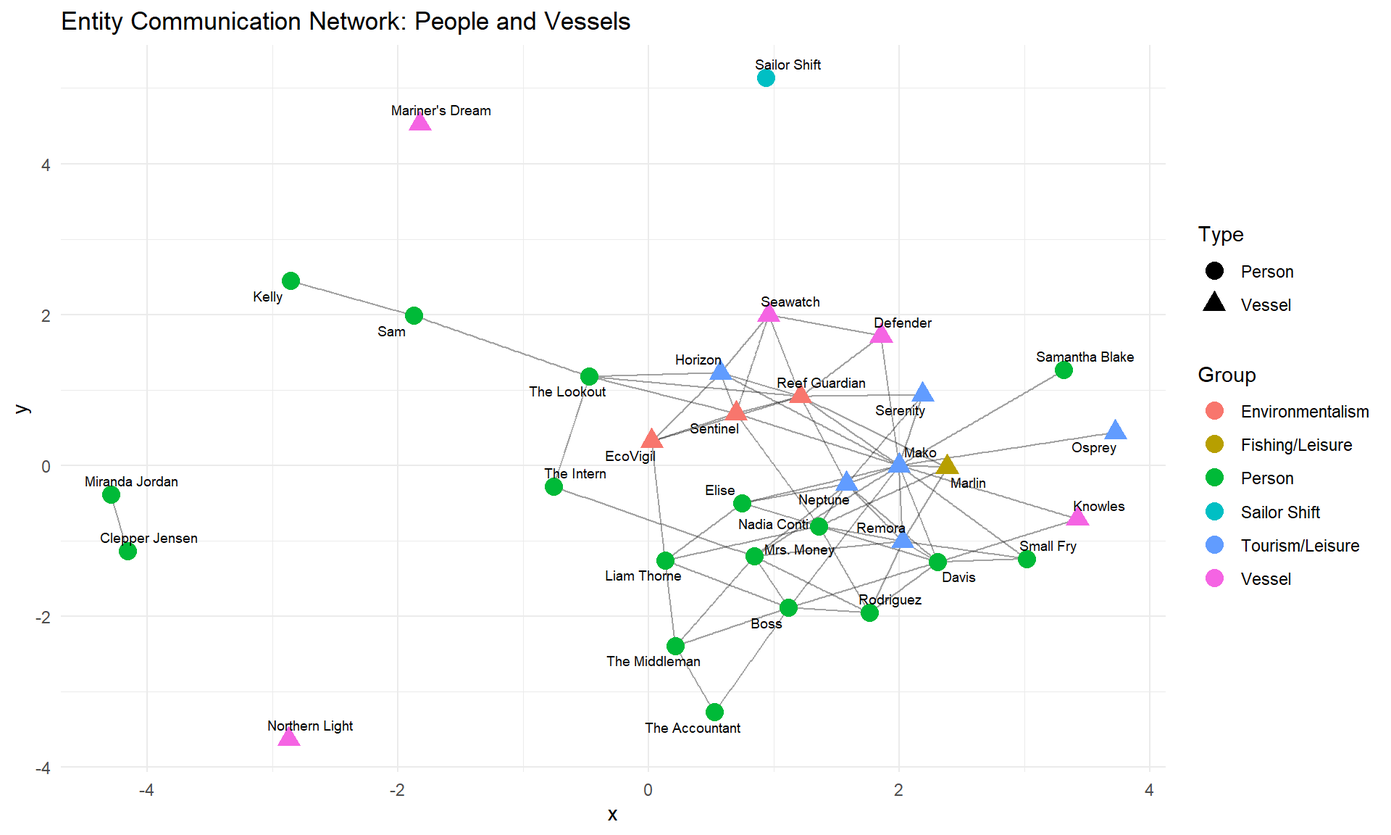
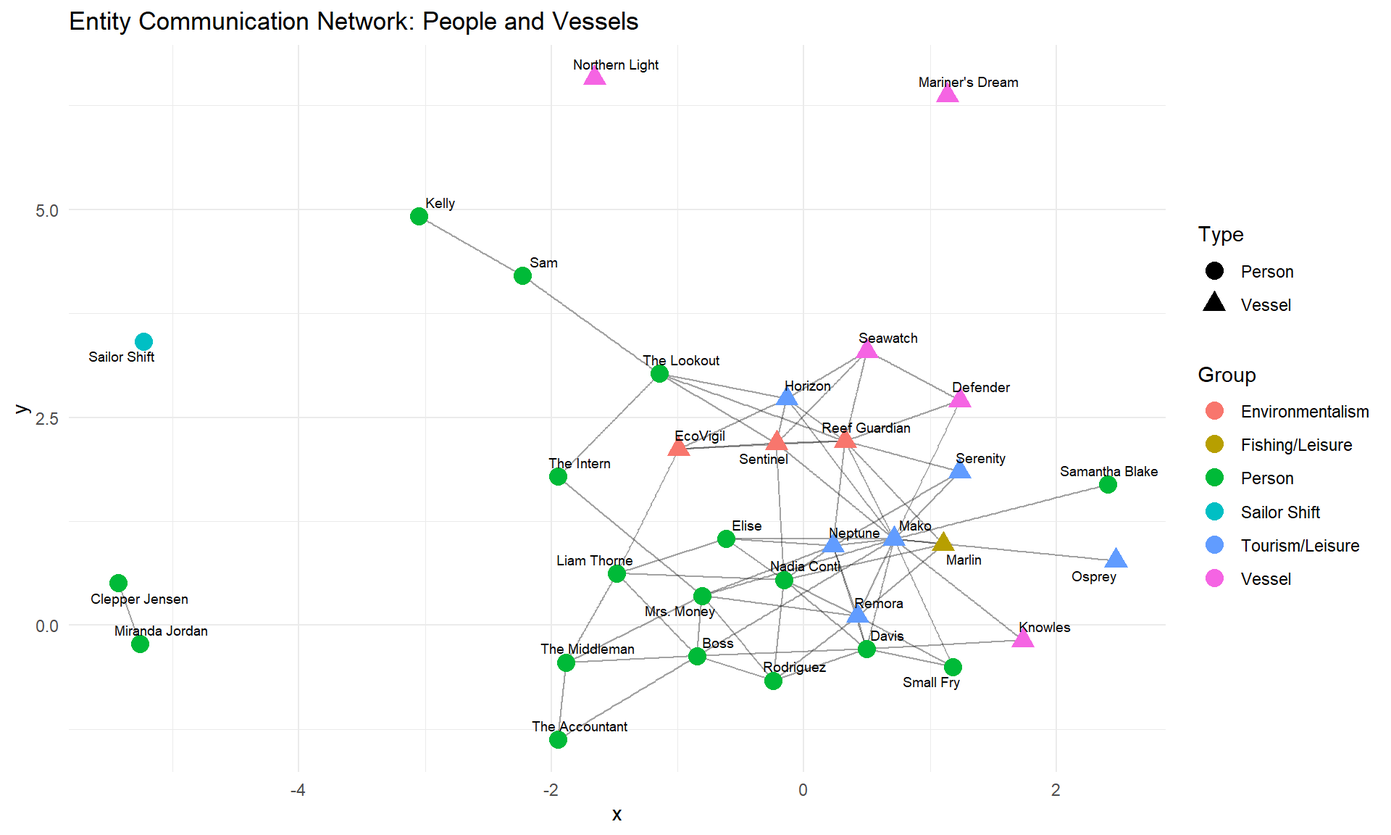
commit cluster analysis

diff --git a/_site/Take-Home_Ex/Take-Home_Ex03/Take-Home_Ex03.html b/_site/Take-Home_Ex/Take-Home_Ex03/Take-Home_Ex03.html
@@ -249,6 +249,8 @@ pre > code.sourceCode > span > a:first-child::before { text-decoration: underlin
   <li><a href="#visualise-groups" id="toc-visualise-groups" class="nav-link" data-scroll-target="#visualise-groups">Visualise Groups</a></li>
   </ul></li>
   <li><a href="#a-interactive-graph" id="toc-a-interactive-graph" class="nav-link" data-scroll-target="#a-interactive-graph">2A Interactive graph</a></li>
+  <li><a href="#cluster-analysis" id="toc-cluster-analysis" class="nav-link" data-scroll-target="#cluster-analysis">Cluster Analysis</a></li>
+  <li><a href="#algorithm-bar-charts" id="toc-algorithm-bar-charts" class="nav-link" data-scroll-target="#algorithm-bar-charts">Algorithm Bar charts</a></li>
   </ul>
 </nav>
     </div>
@@ -281,7 +283,7 @@ pre > code.sourceCode > span > a:first-child::before { text-decoration: underlin
     <div>
     <div class="quarto-title-meta-heading">Modified</div>
     <div class="quarto-title-meta-contents">
-      <p class="date-modified">June 11, 2025</p>
+      <p class="date-modified">June 12, 2025</p>
     </div>
   </div>
     
@@ -298,7 +300,7 @@ pre > code.sourceCode > span > a:first-child::before { text-decoration: underlin
 <div class="cell">
 <details open="">
 <summary>Code</summary>
-<div class="sourceCode cell-code" id="cb1"><pre class="sourceCode r code-with-copy"><code class="sourceCode r"><span id="cb1-1"><a href="#cb1-1" aria-hidden="true" tabindex="-1"></a>pacman<span class="sc">::</span><span class="fu">p_load</span>(tidyverse, jsonlite, lubridate, ggraph, tidygraph, visNetwork)</span></code><button title="Copy to Clipboard" class="code-copy-button"><i class="bi"></i></button></pre></div>
+<div class="sourceCode cell-code" id="cb1"><pre class="sourceCode r code-with-copy"><code class="sourceCode r"><span id="cb1-1"><a href="#cb1-1" aria-hidden="true" tabindex="-1"></a>pacman<span class="sc">::</span><span class="fu">p_load</span>(tidyverse, jsonlite, lubridate, ggraph, tidygraph, visNetwork, igraph, patchwork)</span></code><button title="Copy to Clipboard" class="code-copy-button"><i class="bi"></i></button></pre></div>
 </details>
 </div>
 </section>
@@ -653,8 +655,131 @@ pre > code.sourceCode > span > a:first-child::before { text-decoration: underlin
 <span id="cb14-69"><a href="#cb14-69" aria-hidden="true" tabindex="-1"></a>  <span class="fu">visGroups</span>(<span class="at">groupname =</span> <span class="st">"Person"</span>, <span class="at">color =</span> <span class="st">"#984EA3"</span>)</span></code><button title="Copy to Clipboard" class="code-copy-button"><i class="bi"></i></button></pre></div>
 </details>
 <div class="cell-output-display">
-<div id="htmlwidget-274a1208f644bc00fb0f" style="width:100%;height:800px;" class="visNetwork html-widget"></div>
-<script type="application/json" data-for="htmlwidget-274a1208f644bc00fb0f">{"x":{"nodes":{"id":["Sam","Kelly","Nadia Conti","Elise","Liam Thorne","Samantha Blake","Davis","Rodriguez","Sailor Shift","Clepper Jensen","Miranda Jordan","The Intern","The Lookout","The Accountant","Mrs. Money","The Middleman","Boss","Small Fry","Neptune","Marlin","Serenity","Mako","Reef Guardian","Horizon","Seawatch","EcoVigil","Sentinel","Osprey","Defender","Northern Light","Remora","Knowles","Mariner's Dream"],"label":["Sam","Kelly","Nadia Conti","Elise","Liam Thorne","Samantha Blake","Davis","Rodriguez","Sailor Shift","Clepper Jensen","Miranda Jordan","The Intern","The Lookout","The Accountant","Mrs. Money","The Middleman","Boss","Small Fry","Neptune","Marlin","Serenity","Mako","Reef Guardian","Horizon","Seawatch","EcoVigil","Sentinel","Osprey","Defender","Northern Light","Remora","Knowles","Mariner's Dream"],"group":["Person","Person","Person","Person","Person","Person","Person","Person","Sailor Shift","Person","Person","Person","Person","Person","Person","Person","Person","Person","Tourism/Leisure","Fishing/Leisure","Tourism/Leisure","Tourism/Leisure","Environmentalism","Tourism/Leisure","Vessel","Environmentalism","Environmentalism","Tourism/Leisure","Vessel","Vessel","Tourism/Leisure","Vessel","Vessel"],"shape":["dot","dot","dot","dot","dot","dot","dot","dot","dot","dot","dot","dot","dot","dot","dot","dot","dot","dot","triangle","triangle","triangle","triangle","triangle","triangle","triangle","triangle","triangle","triangle","triangle","triangle","triangle","triangle","triangle"],"title":["<div style='color:white;'><b>Sam<\/b><br>Type: Person<br>Group: Person<\/div>","<div style='color:white;'><b>Kelly<\/b><br>Type: Person<br>Group: Person<\/div>","<div style='color:white;'><b>Nadia Conti<\/b><br>Type: Person<br>Group: Person<\/div>","<div style='color:white;'><b>Elise<\/b><br>Type: Person<br>Group: Person<\/div>","<div style='color:white;'><b>Liam Thorne<\/b><br>Type: Person<br>Group: Person<\/div>","<div style='color:white;'><b>Samantha Blake<\/b><br>Type: Person<br>Group: Person<\/div>","<div style='color:white;'><b>Davis<\/b><br>Type: Person<br>Group: Person<\/div>","<div style='color:white;'><b>Rodriguez<\/b><br>Type: Person<br>Group: Person<\/div>","<div style='color:white;'><b>Sailor Shift<\/b><br>Type: Person<br>Group: Sailor Shift<\/div>","<div style='color:white;'><b>Clepper Jensen<\/b><br>Type: Person<br>Group: Person<\/div>","<div style='color:white;'><b>Miranda Jordan<\/b><br>Type: Person<br>Group: Person<\/div>","<div style='color:white;'><b>The Intern<\/b><br>Type: Person<br>Group: Person<\/div>","<div style='color:white;'><b>The Lookout<\/b><br>Type: Person<br>Group: Person<\/div>","<div style='color:white;'><b>The Accountant<\/b><br>Type: Person<br>Group: Person<\/div>","<div style='color:white;'><b>Mrs. Money<\/b><br>Type: Person<br>Group: Person<\/div>","<div style='color:white;'><b>The Middleman<\/b><br>Type: Person<br>Group: Person<\/div>","<div style='color:white;'><b>Boss<\/b><br>Type: Person<br>Group: Person<\/div>","<div style='color:white;'><b>Small Fry<\/b><br>Type: Person<br>Group: Person<\/div>","<div style='color:white;'><b>Neptune<\/b><br>Type: Vessel<br>Group: Tourism/Leisure<\/div>","<div style='color:white;'><b>Marlin<\/b><br>Type: Vessel<br>Group: Fishing/Leisure<\/div>","<div style='color:white;'><b>Serenity<\/b><br>Type: Vessel<br>Group: Tourism/Leisure<\/div>","<div style='color:white;'><b>Mako<\/b><br>Type: Vessel<br>Group: Tourism/Leisure<\/div>","<div style='color:white;'><b>Reef Guardian<\/b><br>Type: Vessel<br>Group: Environmentalism<\/div>","<div style='color:white;'><b>Horizon<\/b><br>Type: Vessel<br>Group: Tourism/Leisure<\/div>","<div style='color:white;'><b>Seawatch<\/b><br>Type: Vessel<br>Group: Vessel<\/div>","<div style='color:white;'><b>EcoVigil<\/b><br>Type: Vessel<br>Group: Environmentalism<\/div>","<div style='color:white;'><b>Sentinel<\/b><br>Type: Vessel<br>Group: Environmentalism<\/div>","<div style='color:white;'><b>Osprey<\/b><br>Type: Vessel<br>Group: Tourism/Leisure<\/div>","<div style='color:white;'><b>Defender<\/b><br>Type: Vessel<br>Group: Vessel<\/div>","<div style='color:white;'><b>Northern Light<\/b><br>Type: Vessel<br>Group: Vessel<\/div>","<div style='color:white;'><b>Remora<\/b><br>Type: Vessel<br>Group: Tourism/Leisure<\/div>","<div style='color:white;'><b>Knowles<\/b><br>Type: Vessel<br>Group: Vessel<\/div>","<div style='color:white;'><b>Mariner's Dream<\/b><br>Type: Vessel<br>Group: Vessel<\/div>"],"x":[-0.6964304349675645,-0.9327819546507244,0.257675047494905,0.1390713742428085,0.2607448937495409,0.1539443257067257,0.439753600067909,0.5441940666794334,-0.5929881670241083,0.8679975425238844,1,-0.04461100414789609,-0.3533794745929565,0.7402728068265405,0.2997125111781938,0.5185281858154065,0.4797791976351817,0.4826721863173424,0.1507978963180436,0.1405477282457424,-0.07321622404873629,0.1241924238275407,-0.1468815337754948,-0.2567188881814966,-0.402918237414436,-0.1025940848113448,-0.126884779640078,-0.05907331031509888,-0.2785733067569199,-1,0.3495994791123824,0.3905583818535692,-0.02310337891130643],"y":[-0.9239062487078477,-0.9489207066129486,-0.5241070332051898,-0.6543162405031121,-0.8759308862165699,0.1862404851741706,-0.3223555727263261,-0.5184773530901221,0.7781683850277161,0.6706315934539087,0.527805350776394,-1,-0.7852788093617317,-0.9364730102028949,-0.6858681258141854,-0.9480737463760875,-0.6766721224789765,-0.1354731880806581,-0.4253496649155722,-0.1938221880514697,-0.1768336639183763,-0.2953783142026237,-0.4191012474023638,-0.5480778966699242,-0.3962805622218701,-0.7747637661057913,-0.5660346801917748,0.144410732871445,-0.1908155562362993,0.293749615232588,-0.3620784292825885,0.00597545737740246,1]},"edges":{"from":["Sam","Sam","Nadia Conti","Nadia Conti","Nadia Conti","Nadia Conti","Elise","Nadia Conti","Elise","Liam Thorne","Liam Thorne","Samantha Blake","Davis","Davis","Nadia Conti","Davis","Davis","Rodriguez","Davis","Rodriguez","Nadia Conti","Rodriguez","Clepper Jensen","Clepper Jensen","The Intern","The Intern","The Intern","Sam","The Lookout","The Lookout","The Lookout","The Accountant","The Accountant","Mrs. Money","Mrs. Money","The Intern","Mrs. Money","Mrs. Money","Mrs. Money","The Middleman","Mrs. Money","Liam Thorne","The Accountant","Mrs. Money","The Middleman","Boss","Small Fry","Small Fry","Davis","Neptune","Neptune","Neptune","Elise","Neptune","Nadia Conti","Davis","Marlin","Marlin","Marlin","Serenity","Serenity","Neptune","Serenity","Mako","Marlin","Mako","Mako","Mako","Davis","Boss","Samantha Blake","Neptune","Elise","Serenity","Reef Guardian","Mako","Marlin","Reef Guardian","Reef Guardian","Neptune","Reef Guardian","Reef Guardian","Horizon","Horizon","Mako","Horizon","Reef Guardian","Reef Guardian","Horizon","Reef Guardian","Liam Thorne","EcoVigil","Horizon","Mako","Reef Guardian","Nadia Conti","Seawatch","Mako","Reef Guardian","Seawatch","Mako","Rodriguez","Mako","Neptune","Davis","Nadia Conti","Mako","Davis","Sam","Marlin","Small Fry","Small Fry","Seawatch","The Lookout","Rodriguez","Davis","Mako","Elise","Mrs. Money","Elise","Mrs. Money","Liam Thorne","Nadia Conti","Nadia Conti","Mrs. Money","Rodriguez","Nadia Conti","The Lookout","Horizon","Nadia Conti","The Accountant","Liam Thorne","The Lookout","Nadia Conti","Davis","Nadia Conti","Davis","Seawatch","EcoVigil","Mako","Mako","Davis"],"to":["Kelly","Kelly","Liam Thorne","Neptune","Marlin","Elise","Liam Thorne","Liam Thorne","Liam Thorne","Boss","EcoVigil","Mako","Mako","Remora","Davis","Neptune","Boss","Boss","Rodriguez","Mrs. Money","Rodriguez","Remora","Miranda Jordan","Miranda Jordan","The Lookout","Mrs. Money","The Lookout","The Lookout","Sentinel","Horizon","Reef Guardian","Boss","The Middleman","Boss","The Middleman","Mrs. Money","Neptune","Mako","Remora","Boss","The Middleman","The Middleman","The Middleman","Boss","Boss","Mako","Mako","Remora","Small Fry","Mako","Serenity","Remora","Neptune","Reef Guardian","Neptune","Neptune","Mako","Remora","Reef Guardian","Mako","Reef Guardian","Serenity","Mako","Remora","Mako","Osprey","Reef Guardian","Sentinel","Mako","Mako","Mako","Mako","Mako","Reef Guardian","Defender","Reef Guardian","Reef Guardian","Horizon","Sentinel","Reef Guardian","EcoVigil","Seawatch","Sentinel","EcoVigil","Horizon","Seawatch","Horizon","Seawatch","EcoVigil","EcoVigil","EcoVigil","Sentinel","Sentinel","Sentinel","Sentinel","Sentinel","Sentinel","Osprey","Defender","Defender","Defender","Remora","Remora","Remora","Remora","Remora","Knowles","Knowles","The Lookout","Remora","Mako","Remora","Defender","Sentinel","Boss","Rodriguez","Horizon","Neptune","Neptune","Mako","Mako","The Middleman","Davis","Elise","Remora","Mrs. Money","Marlin","Horizon","Seawatch","Sentinel","Boss","Boss","Reef Guardian","Rodriguez","Small Fry","Remora","Boss","Sentinel","Sentinel","Knowles","Defender","Knowles"]},"nodesToDataframe":true,"edgesToDataframe":true,"options":{"width":"100%","height":"100%","nodes":{"shape":"dot","physics":false,"font":{"size":18,"color":"black"},"shadow":{"enabled":true,"size":10}},"manipulation":{"enabled":false},"edges":{"color":{"color":"rgba(100,100,100,0.5)","highlight":"red"},"smooth":false},"physics":{"stabilization":false},"interaction":{"zoomSpeed":1},"groups":{"Environmentalism":{"color":"#4DAF4A"},"Sailor Shift":{"color":"#E41A1C"},"Fishing/Leisure":{"color":"#377EB8"},"Tourism/Leisure":{"color":"#FFD700"},"Vessel":{"color":"#A65628"},"useDefaultGroups":true,"Person":{"color":"#984EA3"}}},"groups":["Person","Sailor Shift","Tourism/Leisure","Fishing/Leisure","Environmentalism","Vessel"],"width":"100%","height":"800px","idselection":{"enabled":true,"style":"width: 150px; height: 26px","useLabels":true,"main":"Select by id"},"byselection":{"enabled":true,"style":"width: 150px; height: 26px","multiple":false,"hideColor":"rgba(200,200,200,0.5)","highlight":false,"variable":"group","main":"Select by group","values":["Environmentalism","Fishing/Leisure","Person","Sailor Shift","Tourism/Leisure","Vessel"]},"main":null,"submain":null,"footer":null,"background":"rgba(0, 0, 0, 0)","igraphlayout":{"type":"square"},"tooltipStay":300,"tooltipStyle":"position: fixed; visibility: hidden; padding: 8px;\n                   font-family: verdana; font-size:14px; color: white;\n                   background-color: black; border-radius: 5px;\n                   border: 1px solid #444; box-shadow: 3px 3px 10px rgba(0, 0, 0, 0.5);\n                   max-width: 300px; word-break: break-word;","highlight":{"enabled":true,"hoverNearest":false,"degree":1,"algorithm":"all","hideColor":"rgba(200,200,200,0.5)","labelOnly":true},"collapse":{"enabled":false,"fit":false,"resetHighlight":true,"clusterOptions":null,"keepCoord":true,"labelSuffix":"(cluster)"},"legend":{"width":0.2,"useGroups":true,"position":"right","ncol":1,"stepX":100,"stepY":100,"zoom":true,"main":{"text":"Group Legend","style":"font-family:Georgia, Times New Roman, Times, serif;font-weight:bold;font-size:14px;text-align:center;"}}},"evals":[],"jsHooks":[]}</script>
+<div id="htmlwidget-94db6590713f53027b1f" style="width:100%;height:800px;" class="visNetwork html-widget"></div>
+<script type="application/json" data-for="htmlwidget-94db6590713f53027b1f">{"x":{"nodes":{"id":["Sam","Kelly","Nadia Conti","Elise","Liam Thorne","Samantha Blake","Davis","Rodriguez","Sailor Shift","Clepper Jensen","Miranda Jordan","The Intern","The Lookout","The Accountant","Mrs. Money","The Middleman","Boss","Small Fry","Neptune","Marlin","Serenity","Mako","Reef Guardian","Horizon","Seawatch","EcoVigil","Sentinel","Osprey","Defender","Northern Light","Remora","Knowles","Mariner's Dream"],"label":["Sam","Kelly","Nadia Conti","Elise","Liam Thorne","Samantha Blake","Davis","Rodriguez","Sailor Shift","Clepper Jensen","Miranda Jordan","The Intern","The Lookout","The Accountant","Mrs. Money","The Middleman","Boss","Small Fry","Neptune","Marlin","Serenity","Mako","Reef Guardian","Horizon","Seawatch","EcoVigil","Sentinel","Osprey","Defender","Northern Light","Remora","Knowles","Mariner's Dream"],"group":["Person","Person","Person","Person","Person","Person","Person","Person","Sailor Shift","Person","Person","Person","Person","Person","Person","Person","Person","Person","Tourism/Leisure","Fishing/Leisure","Tourism/Leisure","Tourism/Leisure","Environmentalism","Tourism/Leisure","Vessel","Environmentalism","Environmentalism","Tourism/Leisure","Vessel","Vessel","Tourism/Leisure","Vessel","Vessel"],"shape":["dot","dot","dot","dot","dot","dot","dot","dot","dot","dot","dot","dot","dot","dot","dot","dot","dot","dot","triangle","triangle","triangle","triangle","triangle","triangle","triangle","triangle","triangle","triangle","triangle","triangle","triangle","triangle","triangle"],"title":["<div style='color:white;'><b>Sam<\/b><br>Type: Person<br>Group: Person<\/div>","<div style='color:white;'><b>Kelly<\/b><br>Type: Person<br>Group: Person<\/div>","<div style='color:white;'><b>Nadia Conti<\/b><br>Type: Person<br>Group: Person<\/div>","<div style='color:white;'><b>Elise<\/b><br>Type: Person<br>Group: Person<\/div>","<div style='color:white;'><b>Liam Thorne<\/b><br>Type: Person<br>Group: Person<\/div>","<div style='color:white;'><b>Samantha Blake<\/b><br>Type: Person<br>Group: Person<\/div>","<div style='color:white;'><b>Davis<\/b><br>Type: Person<br>Group: Person<\/div>","<div style='color:white;'><b>Rodriguez<\/b><br>Type: Person<br>Group: Person<\/div>","<div style='color:white;'><b>Sailor Shift<\/b><br>Type: Person<br>Group: Sailor Shift<\/div>","<div style='color:white;'><b>Clepper Jensen<\/b><br>Type: Person<br>Group: Person<\/div>","<div style='color:white;'><b>Miranda Jordan<\/b><br>Type: Person<br>Group: Person<\/div>","<div style='color:white;'><b>The Intern<\/b><br>Type: Person<br>Group: Person<\/div>","<div style='color:white;'><b>The Lookout<\/b><br>Type: Person<br>Group: Person<\/div>","<div style='color:white;'><b>The Accountant<\/b><br>Type: Person<br>Group: Person<\/div>","<div style='color:white;'><b>Mrs. Money<\/b><br>Type: Person<br>Group: Person<\/div>","<div style='color:white;'><b>The Middleman<\/b><br>Type: Person<br>Group: Person<\/div>","<div style='color:white;'><b>Boss<\/b><br>Type: Person<br>Group: Person<\/div>","<div style='color:white;'><b>Small Fry<\/b><br>Type: Person<br>Group: Person<\/div>","<div style='color:white;'><b>Neptune<\/b><br>Type: Vessel<br>Group: Tourism/Leisure<\/div>","<div style='color:white;'><b>Marlin<\/b><br>Type: Vessel<br>Group: Fishing/Leisure<\/div>","<div style='color:white;'><b>Serenity<\/b><br>Type: Vessel<br>Group: Tourism/Leisure<\/div>","<div style='color:white;'><b>Mako<\/b><br>Type: Vessel<br>Group: Tourism/Leisure<\/div>","<div style='color:white;'><b>Reef Guardian<\/b><br>Type: Vessel<br>Group: Environmentalism<\/div>","<div style='color:white;'><b>Horizon<\/b><br>Type: Vessel<br>Group: Tourism/Leisure<\/div>","<div style='color:white;'><b>Seawatch<\/b><br>Type: Vessel<br>Group: Vessel<\/div>","<div style='color:white;'><b>EcoVigil<\/b><br>Type: Vessel<br>Group: Environmentalism<\/div>","<div style='color:white;'><b>Sentinel<\/b><br>Type: Vessel<br>Group: Environmentalism<\/div>","<div style='color:white;'><b>Osprey<\/b><br>Type: Vessel<br>Group: Tourism/Leisure<\/div>","<div style='color:white;'><b>Defender<\/b><br>Type: Vessel<br>Group: Vessel<\/div>","<div style='color:white;'><b>Northern Light<\/b><br>Type: Vessel<br>Group: Vessel<\/div>","<div style='color:white;'><b>Remora<\/b><br>Type: Vessel<br>Group: Tourism/Leisure<\/div>","<div style='color:white;'><b>Knowles<\/b><br>Type: Vessel<br>Group: Vessel<\/div>","<div style='color:white;'><b>Mariner's Dream<\/b><br>Type: Vessel<br>Group: Vessel<\/div>"],"x":[0.6459140066405133,0.924146382892068,-0.4868022234157402,-0.2971351447483092,-0.2140979901832551,-0.768437381026746,-0.7902762969765456,-0.7164481460369175,-0.2460445092693689,0.8890813469274583,1,0.1127874234659589,0.2011254929635293,-0.5175669582523099,-0.3939567289271738,-0.3475416503968272,-0.5402607241313451,-0.963223071828986,-0.484221228509309,-0.6640929343597528,-0.504577745659885,-0.5585093930643148,-0.2496087679385791,-0.05425620469036374,-0.06557018147588267,-0.01002251421007672,-0.1469528790531645,-0.9594402778385825,-0.3249638081428239,-0.8988993500818053,-0.682937206131355,-1,0.3264471219623066],"y":[0.2716706885856697,0.3417194385951725,0.4191146181334637,0.4049889100560951,0.6238215020903604,-0.2044335732366279,0.4138769923717072,0.6161838413073657,-1,-0.4454773838262113,-0.2915967014852148,0.5391705529383424,0.2160846210924314,1,0.5504466818230411,0.8503119940076562,0.6600385456746878,0.3349298915881016,0.2820968939601822,0.1729980683992243,-0.02729253595945835,0.1812560830332806,0.08131172873866266,0.07509688492443201,-0.1218830063494151,0.3164279463144306,0.1763892694834965,-0.07704494728606337,-0.1569915172060961,-0.9035099051703173,0.4024133171760431,0.1807298569011442,-0.8731267251733201]},"edges":{"from":["Sam","Sam","Nadia Conti","Nadia Conti","Nadia Conti","Nadia Conti","Elise","Nadia Conti","Elise","Liam Thorne","Liam Thorne","Samantha Blake","Davis","Davis","Nadia Conti","Davis","Davis","Rodriguez","Davis","Rodriguez","Nadia Conti","Rodriguez","Clepper Jensen","Clepper Jensen","The Intern","The Intern","The Intern","Sam","The Lookout","The Lookout","The Lookout","The Accountant","The Accountant","Mrs. Money","Mrs. Money","The Intern","Mrs. Money","Mrs. Money","Mrs. Money","The Middleman","Mrs. Money","Liam Thorne","The Accountant","Mrs. Money","The Middleman","Boss","Small Fry","Small Fry","Davis","Neptune","Neptune","Neptune","Elise","Neptune","Nadia Conti","Davis","Marlin","Marlin","Marlin","Serenity","Serenity","Neptune","Serenity","Mako","Marlin","Mako","Mako","Mako","Davis","Boss","Samantha Blake","Neptune","Elise","Serenity","Reef Guardian","Mako","Marlin","Reef Guardian","Reef Guardian","Neptune","Reef Guardian","Reef Guardian","Horizon","Horizon","Mako","Horizon","Reef Guardian","Reef Guardian","Horizon","Reef Guardian","Liam Thorne","EcoVigil","Horizon","Mako","Reef Guardian","Nadia Conti","Seawatch","Mako","Reef Guardian","Seawatch","Mako","Rodriguez","Mako","Neptune","Davis","Nadia Conti","Mako","Davis","Sam","Marlin","Small Fry","Small Fry","Seawatch","The Lookout","Rodriguez","Davis","Mako","Elise","Mrs. Money","Elise","Mrs. Money","Liam Thorne","Nadia Conti","Nadia Conti","Mrs. Money","Rodriguez","Nadia Conti","The Lookout","Horizon","Nadia Conti","The Accountant","Liam Thorne","The Lookout","Nadia Conti","Davis","Nadia Conti","Davis","Seawatch","EcoVigil","Mako","Mako","Davis"],"to":["Kelly","Kelly","Liam Thorne","Neptune","Marlin","Elise","Liam Thorne","Liam Thorne","Liam Thorne","Boss","EcoVigil","Mako","Mako","Remora","Davis","Neptune","Boss","Boss","Rodriguez","Mrs. Money","Rodriguez","Remora","Miranda Jordan","Miranda Jordan","The Lookout","Mrs. Money","The Lookout","The Lookout","Sentinel","Horizon","Reef Guardian","Boss","The Middleman","Boss","The Middleman","Mrs. Money","Neptune","Mako","Remora","Boss","The Middleman","The Middleman","The Middleman","Boss","Boss","Mako","Mako","Remora","Small Fry","Mako","Serenity","Remora","Neptune","Reef Guardian","Neptune","Neptune","Mako","Remora","Reef Guardian","Mako","Reef Guardian","Serenity","Mako","Remora","Mako","Osprey","Reef Guardian","Sentinel","Mako","Mako","Mako","Mako","Mako","Reef Guardian","Defender","Reef Guardian","Reef Guardian","Horizon","Sentinel","Reef Guardian","EcoVigil","Seawatch","Sentinel","EcoVigil","Horizon","Seawatch","Horizon","Seawatch","EcoVigil","EcoVigil","EcoVigil","Sentinel","Sentinel","Sentinel","Sentinel","Sentinel","Sentinel","Osprey","Defender","Defender","Defender","Remora","Remora","Remora","Remora","Remora","Knowles","Knowles","The Lookout","Remora","Mako","Remora","Defender","Sentinel","Boss","Rodriguez","Horizon","Neptune","Neptune","Mako","Mako","The Middleman","Davis","Elise","Remora","Mrs. Money","Marlin","Horizon","Seawatch","Sentinel","Boss","Boss","Reef Guardian","Rodriguez","Small Fry","Remora","Boss","Sentinel","Sentinel","Knowles","Defender","Knowles"]},"nodesToDataframe":true,"edgesToDataframe":true,"options":{"width":"100%","height":"100%","nodes":{"shape":"dot","physics":false,"font":{"size":18,"color":"black"},"shadow":{"enabled":true,"size":10}},"manipulation":{"enabled":false},"edges":{"color":{"color":"rgba(100,100,100,0.5)","highlight":"red"},"smooth":false},"physics":{"stabilization":false},"interaction":{"zoomSpeed":1},"groups":{"Environmentalism":{"color":"#4DAF4A"},"Sailor Shift":{"color":"#E41A1C"},"Fishing/Leisure":{"color":"#377EB8"},"Tourism/Leisure":{"color":"#FFD700"},"Vessel":{"color":"#A65628"},"useDefaultGroups":true,"Person":{"color":"#984EA3"}}},"groups":["Person","Sailor Shift","Tourism/Leisure","Fishing/Leisure","Environmentalism","Vessel"],"width":"100%","height":"800px","idselection":{"enabled":true,"style":"width: 150px; height: 26px","useLabels":true,"main":"Select by id"},"byselection":{"enabled":true,"style":"width: 150px; height: 26px","multiple":false,"hideColor":"rgba(200,200,200,0.5)","highlight":false,"variable":"group","main":"Select by group","values":["Environmentalism","Fishing/Leisure","Person","Sailor Shift","Tourism/Leisure","Vessel"]},"main":null,"submain":null,"footer":null,"background":"rgba(0, 0, 0, 0)","igraphlayout":{"type":"square"},"tooltipStay":300,"tooltipStyle":"position: fixed; visibility: hidden; padding: 8px;\n                   font-family: verdana; font-size:14px; color: white;\n                   background-color: black; border-radius: 5px;\n                   border: 1px solid #444; box-shadow: 3px 3px 10px rgba(0, 0, 0, 0.5);\n                   max-width: 300px; word-break: break-word;","highlight":{"enabled":true,"hoverNearest":false,"degree":1,"algorithm":"all","hideColor":"rgba(200,200,200,0.5)","labelOnly":true},"collapse":{"enabled":false,"fit":false,"resetHighlight":true,"clusterOptions":null,"keepCoord":true,"labelSuffix":"(cluster)"},"legend":{"width":0.2,"useGroups":true,"position":"right","ncol":1,"stepX":100,"stepY":100,"zoom":true,"main":{"text":"Group Legend","style":"font-family:Georgia, Times New Roman, Times, serif;font-weight:bold;font-size:14px;text-align:center;"}}},"evals":[],"jsHooks":[]}</script>
+</div>
+</div>
+</section>
+<section id="cluster-analysis" class="level1">
+<h1>Cluster Analysis</h1>
+<div class="cell">
+<details open="">
+<summary>Code</summary>
+<div class="sourceCode cell-code" id="cb15"><pre class="sourceCode r code-with-copy"><code class="sourceCode r"><span id="cb15-1"><a href="#cb15-1" aria-hidden="true" tabindex="-1"></a><span class="co"># ---- CLUSTER ANALYSIS (FIXED) ----</span></span>
+<span id="cb15-2"><a href="#cb15-2" aria-hidden="true" tabindex="-1"></a>graph_igraph <span class="ot">&lt;-</span> <span class="fu">as.igraph</span>(graph_tbl)</span>
+<span id="cb15-3"><a href="#cb15-3" aria-hidden="true" tabindex="-1"></a></span>
+<span id="cb15-4"><a href="#cb15-4" aria-hidden="true" tabindex="-1"></a><span class="co"># Check graph connectivity and get component info</span></span>
+<span id="cb15-5"><a href="#cb15-5" aria-hidden="true" tabindex="-1"></a>components <span class="ot">&lt;-</span> <span class="fu">components</span>(graph_igraph)</span>
+<span id="cb15-6"><a href="#cb15-6" aria-hidden="true" tabindex="-1"></a>largest_comp <span class="ot">&lt;-</span> <span class="fu">which.max</span>(components<span class="sc">$</span>csize)</span>
+<span id="cb15-7"><a href="#cb15-7" aria-hidden="true" tabindex="-1"></a>node_indices <span class="ot">&lt;-</span> <span class="fu">which</span>(components<span class="sc">$</span>membership <span class="sc">==</span> largest_comp)</span>
+<span id="cb15-8"><a href="#cb15-8" aria-hidden="true" tabindex="-1"></a></span>
+<span id="cb15-9"><a href="#cb15-9" aria-hidden="true" tabindex="-1"></a><span class="co"># Compute clusters</span></span>
+<span id="cb15-10"><a href="#cb15-10" aria-hidden="true" tabindex="-1"></a>cluster_infomap <span class="ot">&lt;-</span> <span class="fu">cluster_infomap</span>(graph_igraph)</span>
+<span id="cb15-11"><a href="#cb15-11" aria-hidden="true" tabindex="-1"></a>cluster_louvain <span class="ot">&lt;-</span> <span class="fu">cluster_louvain</span>(graph_igraph)</span>
+<span id="cb15-12"><a href="#cb15-12" aria-hidden="true" tabindex="-1"></a>cluster_walktrap <span class="ot">&lt;-</span> <span class="fu">cluster_walktrap</span>(graph_igraph, <span class="at">steps =</span> <span class="dv">10</span>)</span>
+<span id="cb15-13"><a href="#cb15-13" aria-hidden="true" tabindex="-1"></a>cluster_edge_betweenness <span class="ot">&lt;-</span> <span class="fu">cluster_edge_betweenness</span>(graph_igraph, <span class="at">directed =</span> <span class="cn">FALSE</span>)</span>
+<span id="cb15-14"><a href="#cb15-14" aria-hidden="true" tabindex="-1"></a></span>
+<span id="cb15-15"><a href="#cb15-15" aria-hidden="true" tabindex="-1"></a><span class="co"># Spinglass only on largest component</span></span>
+<span id="cb15-16"><a href="#cb15-16" aria-hidden="true" tabindex="-1"></a>graph_connected <span class="ot">&lt;-</span> <span class="fu">induced_subgraph</span>(graph_igraph, node_indices)</span>
+<span id="cb15-17"><a href="#cb15-17" aria-hidden="true" tabindex="-1"></a>cluster_spinglass <span class="ot">&lt;-</span> <span class="fu">cluster_spinglass</span>(graph_connected)</span>
+<span id="cb15-18"><a href="#cb15-18" aria-hidden="true" tabindex="-1"></a></span>
+<span id="cb15-19"><a href="#cb15-19" aria-hidden="true" tabindex="-1"></a><span class="co"># Create aligned cluster vectors</span></span>
+<span id="cb15-20"><a href="#cb15-20" aria-hidden="true" tabindex="-1"></a>spinglass_vec <span class="ot">&lt;-</span> <span class="fu">rep</span>(<span class="cn">NA</span>, <span class="fu">vcount</span>(graph_igraph))</span>
+<span id="cb15-21"><a href="#cb15-21" aria-hidden="true" tabindex="-1"></a>spinglass_vec[node_indices] <span class="ot">&lt;-</span> <span class="fu">membership</span>(cluster_spinglass)</span>
+<span id="cb15-22"><a href="#cb15-22" aria-hidden="true" tabindex="-1"></a></span>
+<span id="cb15-23"><a href="#cb15-23" aria-hidden="true" tabindex="-1"></a><span class="co"># Add cluster memberships to nodes</span></span>
+<span id="cb15-24"><a href="#cb15-24" aria-hidden="true" tabindex="-1"></a>entity_nodes <span class="ot">&lt;-</span> entity_nodes <span class="sc">%&gt;%</span></span>
+<span id="cb15-25"><a href="#cb15-25" aria-hidden="true" tabindex="-1"></a>  <span class="fu">mutate</span>(</span>
+<span id="cb15-26"><a href="#cb15-26" aria-hidden="true" tabindex="-1"></a>    <span class="at">infomap_cluster =</span> <span class="fu">as.factor</span>(<span class="fu">membership</span>(cluster_infomap)),</span>
+<span id="cb15-27"><a href="#cb15-27" aria-hidden="true" tabindex="-1"></a>    <span class="at">louvain_cluster =</span> <span class="fu">as.factor</span>(<span class="fu">membership</span>(cluster_louvain)),</span>
+<span id="cb15-28"><a href="#cb15-28" aria-hidden="true" tabindex="-1"></a>    <span class="at">walktrap_cluster =</span> <span class="fu">as.factor</span>(<span class="fu">membership</span>(cluster_walktrap)),</span>
+<span id="cb15-29"><a href="#cb15-29" aria-hidden="true" tabindex="-1"></a>    <span class="at">edge_betweenness_cluster =</span> <span class="fu">as.factor</span>(<span class="fu">membership</span>(cluster_edge_betweenness)),</span>
+<span id="cb15-30"><a href="#cb15-30" aria-hidden="true" tabindex="-1"></a>    <span class="at">spinglass_cluster =</span> <span class="fu">as.factor</span>(spinglass_vec)</span>
+<span id="cb15-31"><a href="#cb15-31" aria-hidden="true" tabindex="-1"></a>  )</span>
+<span id="cb15-32"><a href="#cb15-32" aria-hidden="true" tabindex="-1"></a></span>
+<span id="cb15-33"><a href="#cb15-33" aria-hidden="true" tabindex="-1"></a></span>
+<span id="cb15-34"><a href="#cb15-34" aria-hidden="true" tabindex="-1"></a><span class="co"># ---- VISUALIZE CLUSTERS (example: Infomap) ----</span></span>
+<span id="cb15-35"><a href="#cb15-35" aria-hidden="true" tabindex="-1"></a>graph_tbl_clustered <span class="ot">&lt;-</span> graph_tbl <span class="sc">%&gt;%</span></span>
+<span id="cb15-36"><a href="#cb15-36" aria-hidden="true" tabindex="-1"></a>  <span class="fu">left_join</span>(entity_nodes <span class="sc">%&gt;%</span> <span class="fu">select</span>(id, infomap_cluster), <span class="at">by =</span> <span class="st">"id"</span>)</span>
+<span id="cb15-37"><a href="#cb15-37" aria-hidden="true" tabindex="-1"></a></span>
+<span id="cb15-38"><a href="#cb15-38" aria-hidden="true" tabindex="-1"></a><span class="fu">ggraph</span>(graph_tbl_clustered, <span class="at">layout =</span> <span class="st">"fr"</span>) <span class="sc">+</span></span>
+<span id="cb15-39"><a href="#cb15-39" aria-hidden="true" tabindex="-1"></a>  <span class="fu">geom_edge_link</span>(<span class="at">alpha =</span> <span class="fl">0.1</span>, <span class="at">color =</span> <span class="st">"gray"</span>) <span class="sc">+</span></span>
+<span id="cb15-40"><a href="#cb15-40" aria-hidden="true" tabindex="-1"></a>  <span class="fu">geom_node_point</span>(<span class="fu">aes</span>(<span class="at">color =</span> infomap_cluster, <span class="at">shape =</span> sub_type), <span class="at">size =</span> <span class="dv">5</span>) <span class="sc">+</span></span>
+<span id="cb15-41"><a href="#cb15-41" aria-hidden="true" tabindex="-1"></a>  <span class="fu">geom_node_text</span>(<span class="fu">aes</span>(<span class="at">label =</span> name), <span class="at">repel =</span> <span class="cn">TRUE</span>, <span class="at">size =</span> <span class="dv">3</span>) <span class="sc">+</span></span>
+<span id="cb15-42"><a href="#cb15-42" aria-hidden="true" tabindex="-1"></a>  <span class="fu">labs</span>(<span class="at">title =</span> <span class="st">"Infomap Clustering"</span>, <span class="at">color =</span> <span class="st">"Cluster"</span>) <span class="sc">+</span></span>
+<span id="cb15-43"><a href="#cb15-43" aria-hidden="true" tabindex="-1"></a>  <span class="fu">theme_minimal</span>()</span></code><button title="Copy to Clipboard" class="code-copy-button"><i class="bi"></i></button></pre></div>
+</details>
+<div class="cell-output-display">
+<p><img src="Take-Home_Ex03_files/figure-html/unnamed-chunk-14-1.png" class="img-fluid" width="672"></p>
+</div>
+<details open="">
+<summary>Code</summary>
+<div class="sourceCode cell-code" id="cb16"><pre class="sourceCode r code-with-copy"><code class="sourceCode r"><span id="cb16-1"><a href="#cb16-1" aria-hidden="true" tabindex="-1"></a><span class="co"># ---- CLUSTER METRICS TABLE ----</span></span>
+<span id="cb16-2"><a href="#cb16-2" aria-hidden="true" tabindex="-1"></a>cluster_metrics <span class="ot">&lt;-</span> <span class="fu">tibble</span>(</span>
+<span id="cb16-3"><a href="#cb16-3" aria-hidden="true" tabindex="-1"></a>  <span class="at">Algorithm =</span> <span class="fu">c</span>(<span class="st">"Infomap"</span>, <span class="st">"Louvain"</span>, <span class="st">"Walktrap"</span>, <span class="st">"Edge Betweenness"</span>, <span class="st">"Spinglass"</span>),</span>
+<span id="cb16-4"><a href="#cb16-4" aria-hidden="true" tabindex="-1"></a>  <span class="at">Clusters =</span> <span class="fu">c</span>(<span class="fu">length</span>(<span class="fu">unique</span>(<span class="fu">membership</span>(cluster_infomap))),</span>
+<span id="cb16-5"><a href="#cb16-5" aria-hidden="true" tabindex="-1"></a>               <span class="fu">length</span>(<span class="fu">unique</span>(<span class="fu">membership</span>(cluster_louvain))),</span>
+<span id="cb16-6"><a href="#cb16-6" aria-hidden="true" tabindex="-1"></a>               <span class="fu">length</span>(<span class="fu">unique</span>(<span class="fu">membership</span>(cluster_walktrap))),</span>
+<span id="cb16-7"><a href="#cb16-7" aria-hidden="true" tabindex="-1"></a>               <span class="fu">length</span>(<span class="fu">unique</span>(<span class="fu">membership</span>(cluster_edge_betweenness))),</span>
+<span id="cb16-8"><a href="#cb16-8" aria-hidden="true" tabindex="-1"></a>               <span class="fu">length</span>(<span class="fu">unique</span>(<span class="fu">membership</span>(cluster_spinglass)))),</span>
+<span id="cb16-9"><a href="#cb16-9" aria-hidden="true" tabindex="-1"></a>  <span class="at">Modularity =</span> <span class="fu">c</span>(<span class="fu">modularity</span>(cluster_infomap),</span>
+<span id="cb16-10"><a href="#cb16-10" aria-hidden="true" tabindex="-1"></a>                 <span class="fu">modularity</span>(cluster_louvain),</span>
+<span id="cb16-11"><a href="#cb16-11" aria-hidden="true" tabindex="-1"></a>                 <span class="fu">modularity</span>(cluster_walktrap),</span>
+<span id="cb16-12"><a href="#cb16-12" aria-hidden="true" tabindex="-1"></a>                 <span class="fu">modularity</span>(cluster_edge_betweenness),</span>
+<span id="cb16-13"><a href="#cb16-13" aria-hidden="true" tabindex="-1"></a>                 <span class="fu">modularity</span>(cluster_spinglass))</span>
+<span id="cb16-14"><a href="#cb16-14" aria-hidden="true" tabindex="-1"></a>)</span>
+<span id="cb16-15"><a href="#cb16-15" aria-hidden="true" tabindex="-1"></a></span>
+<span id="cb16-16"><a href="#cb16-16" aria-hidden="true" tabindex="-1"></a><span class="fu">print</span>(cluster_metrics)</span></code><button title="Copy to Clipboard" class="code-copy-button"><i class="bi"></i></button></pre></div>
+</details>
+<div class="cell-output cell-output-stdout">
+<pre><code># A tibble: 5 × 3
+  Algorithm        Clusters Modularity
+  &lt;chr&gt;               &lt;int&gt;      &lt;dbl&gt;
+1 Infomap                15      0.143
+2 Louvain                 7      0.359
+3 Walktrap                7      0.304
+4 Edge Betweenness       10      0.342
+5 Spinglass               4      0.262</code></pre>
+</div>
+</div>
+</section>
+<section id="algorithm-bar-charts" class="level1">
+<h1>Algorithm Bar charts</h1>
+<div class="cell">
+<details open="">
+<summary>Code</summary>
+<div class="sourceCode cell-code" id="cb18"><pre class="sourceCode r code-with-copy"><code class="sourceCode r"><span id="cb18-1"><a href="#cb18-1" aria-hidden="true" tabindex="-1"></a><span class="co"># Create metrics comparison plots</span></span>
+<span id="cb18-2"><a href="#cb18-2" aria-hidden="true" tabindex="-1"></a>cluster_metrics <span class="ot">&lt;-</span> <span class="fu">tibble</span>(</span>
+<span id="cb18-3"><a href="#cb18-3" aria-hidden="true" tabindex="-1"></a>  <span class="at">Algorithm =</span> <span class="fu">c</span>(<span class="st">"Infomap"</span>, <span class="st">"Louvain"</span>, <span class="st">"Walktrap"</span>, <span class="st">"Edge Betweenness"</span>, <span class="st">"Spinglass"</span>),</span>
+<span id="cb18-4"><a href="#cb18-4" aria-hidden="true" tabindex="-1"></a>  <span class="at">Clusters =</span> <span class="fu">c</span>(<span class="dv">13</span>, <span class="dv">7</span>, <span class="dv">7</span>, <span class="dv">10</span>, <span class="dv">5</span>),</span>
+<span id="cb18-5"><a href="#cb18-5" aria-hidden="true" tabindex="-1"></a>  <span class="at">Modularity =</span> <span class="fu">c</span>(<span class="fl">0.1472922</span>, <span class="fl">0.3585598</span>, <span class="fl">0.3040071</span>, <span class="fl">0.3416981</span>, <span class="fl">0.2318878</span>)</span>
+<span id="cb18-6"><a href="#cb18-6" aria-hidden="true" tabindex="-1"></a>)</span>
+<span id="cb18-7"><a href="#cb18-7" aria-hidden="true" tabindex="-1"></a></span>
+<span id="cb18-8"><a href="#cb18-8" aria-hidden="true" tabindex="-1"></a><span class="co"># Clusters comparison</span></span>
+<span id="cb18-9"><a href="#cb18-9" aria-hidden="true" tabindex="-1"></a>p1 <span class="ot">&lt;-</span> <span class="fu">ggplot</span>(cluster_metrics, <span class="fu">aes</span>(<span class="at">x =</span> <span class="fu">reorder</span>(Algorithm, Clusters), <span class="at">y =</span> Clusters, <span class="at">fill =</span> Algorithm)) <span class="sc">+</span></span>
+<span id="cb18-10"><a href="#cb18-10" aria-hidden="true" tabindex="-1"></a>  <span class="fu">geom_col</span>(<span class="at">alpha =</span> <span class="fl">0.8</span>) <span class="sc">+</span></span>
+<span id="cb18-11"><a href="#cb18-11" aria-hidden="true" tabindex="-1"></a>  <span class="fu">geom_text</span>(<span class="fu">aes</span>(<span class="at">label =</span> Clusters), <span class="at">vjust =</span> <span class="sc">-</span><span class="fl">0.5</span>, <span class="at">size =</span> <span class="dv">4</span>, <span class="at">fontface =</span> <span class="st">"bold"</span>) <span class="sc">+</span></span>
+<span id="cb18-12"><a href="#cb18-12" aria-hidden="true" tabindex="-1"></a>  <span class="fu">labs</span>(<span class="at">title =</span> <span class="st">"Number of Clusters by Algorithm"</span>, </span>
+<span id="cb18-13"><a href="#cb18-13" aria-hidden="true" tabindex="-1"></a>       <span class="at">x =</span> <span class="st">"Algorithm"</span>, <span class="at">y =</span> <span class="st">"Number of Clusters"</span>) <span class="sc">+</span></span>
+<span id="cb18-14"><a href="#cb18-14" aria-hidden="true" tabindex="-1"></a>  <span class="fu">theme_minimal</span>() <span class="sc">+</span></span>
+<span id="cb18-15"><a href="#cb18-15" aria-hidden="true" tabindex="-1"></a>  <span class="fu">theme</span>(<span class="at">legend.position =</span> <span class="st">"none"</span>, <span class="at">axis.text.x =</span> <span class="fu">element_text</span>(<span class="at">angle =</span> <span class="dv">45</span>, <span class="at">hjust =</span> <span class="dv">1</span>)) <span class="sc">+</span></span>
+<span id="cb18-16"><a href="#cb18-16" aria-hidden="true" tabindex="-1"></a>  <span class="fu">scale_fill_brewer</span>(<span class="at">palette =</span> <span class="st">"Set2"</span>)</span>
+<span id="cb18-17"><a href="#cb18-17" aria-hidden="true" tabindex="-1"></a></span>
+<span id="cb18-18"><a href="#cb18-18" aria-hidden="true" tabindex="-1"></a><span class="co"># Modularity comparison</span></span>
+<span id="cb18-19"><a href="#cb18-19" aria-hidden="true" tabindex="-1"></a>p2 <span class="ot">&lt;-</span> <span class="fu">ggplot</span>(cluster_metrics, <span class="fu">aes</span>(<span class="at">x =</span> <span class="fu">reorder</span>(Algorithm, <span class="sc">-</span>Modularity), <span class="at">y =</span> Modularity, <span class="at">fill =</span> Algorithm)) <span class="sc">+</span></span>
+<span id="cb18-20"><a href="#cb18-20" aria-hidden="true" tabindex="-1"></a>  <span class="fu">geom_col</span>(<span class="at">alpha =</span> <span class="fl">0.8</span>) <span class="sc">+</span></span>
+<span id="cb18-21"><a href="#cb18-21" aria-hidden="true" tabindex="-1"></a>  <span class="fu">geom_text</span>(<span class="fu">aes</span>(<span class="at">label =</span> <span class="fu">round</span>(Modularity, <span class="dv">3</span>)), <span class="at">vjust =</span> <span class="sc">-</span><span class="fl">0.5</span>, <span class="at">size =</span> <span class="dv">4</span>, <span class="at">fontface =</span> <span class="st">"bold"</span>) <span class="sc">+</span></span>
+<span id="cb18-22"><a href="#cb18-22" aria-hidden="true" tabindex="-1"></a>  <span class="fu">labs</span>(<span class="at">title =</span> <span class="st">"Modularity Score by Algorithm"</span>, </span>
+<span id="cb18-23"><a href="#cb18-23" aria-hidden="true" tabindex="-1"></a>       <span class="at">x =</span> <span class="st">"Algorithm"</span>, <span class="at">y =</span> <span class="st">"Modularity Score"</span>) <span class="sc">+</span></span>
+<span id="cb18-24"><a href="#cb18-24" aria-hidden="true" tabindex="-1"></a>  <span class="fu">theme_minimal</span>() <span class="sc">+</span></span>
+<span id="cb18-25"><a href="#cb18-25" aria-hidden="true" tabindex="-1"></a>  <span class="fu">theme</span>(<span class="at">legend.position =</span> <span class="st">"none"</span>, <span class="at">axis.text.x =</span> <span class="fu">element_text</span>(<span class="at">angle =</span> <span class="dv">45</span>, <span class="at">hjust =</span> <span class="dv">1</span>)) <span class="sc">+</span></span>
+<span id="cb18-26"><a href="#cb18-26" aria-hidden="true" tabindex="-1"></a>  <span class="fu">scale_fill_brewer</span>(<span class="at">palette =</span> <span class="st">"Set2"</span>)</span>
+<span id="cb18-27"><a href="#cb18-27" aria-hidden="true" tabindex="-1"></a></span>
+<span id="cb18-28"><a href="#cb18-28" aria-hidden="true" tabindex="-1"></a><span class="co"># Combined plot</span></span>
+<span id="cb18-29"><a href="#cb18-29" aria-hidden="true" tabindex="-1"></a>p1 <span class="sc">+</span> p2 <span class="sc">+</span> <span class="fu">plot_layout</span>(<span class="at">ncol =</span> <span class="dv">2</span>)</span></code><button title="Copy to Clipboard" class="code-copy-button"><i class="bi"></i></button></pre></div>
+</details>
+<div class="cell-output-display">
+<p><img src="Take-Home_Ex03_files/figure-html/unnamed-chunk-15-1.png" class="img-fluid" width="576"></p>
 </div>
 </div>
 
